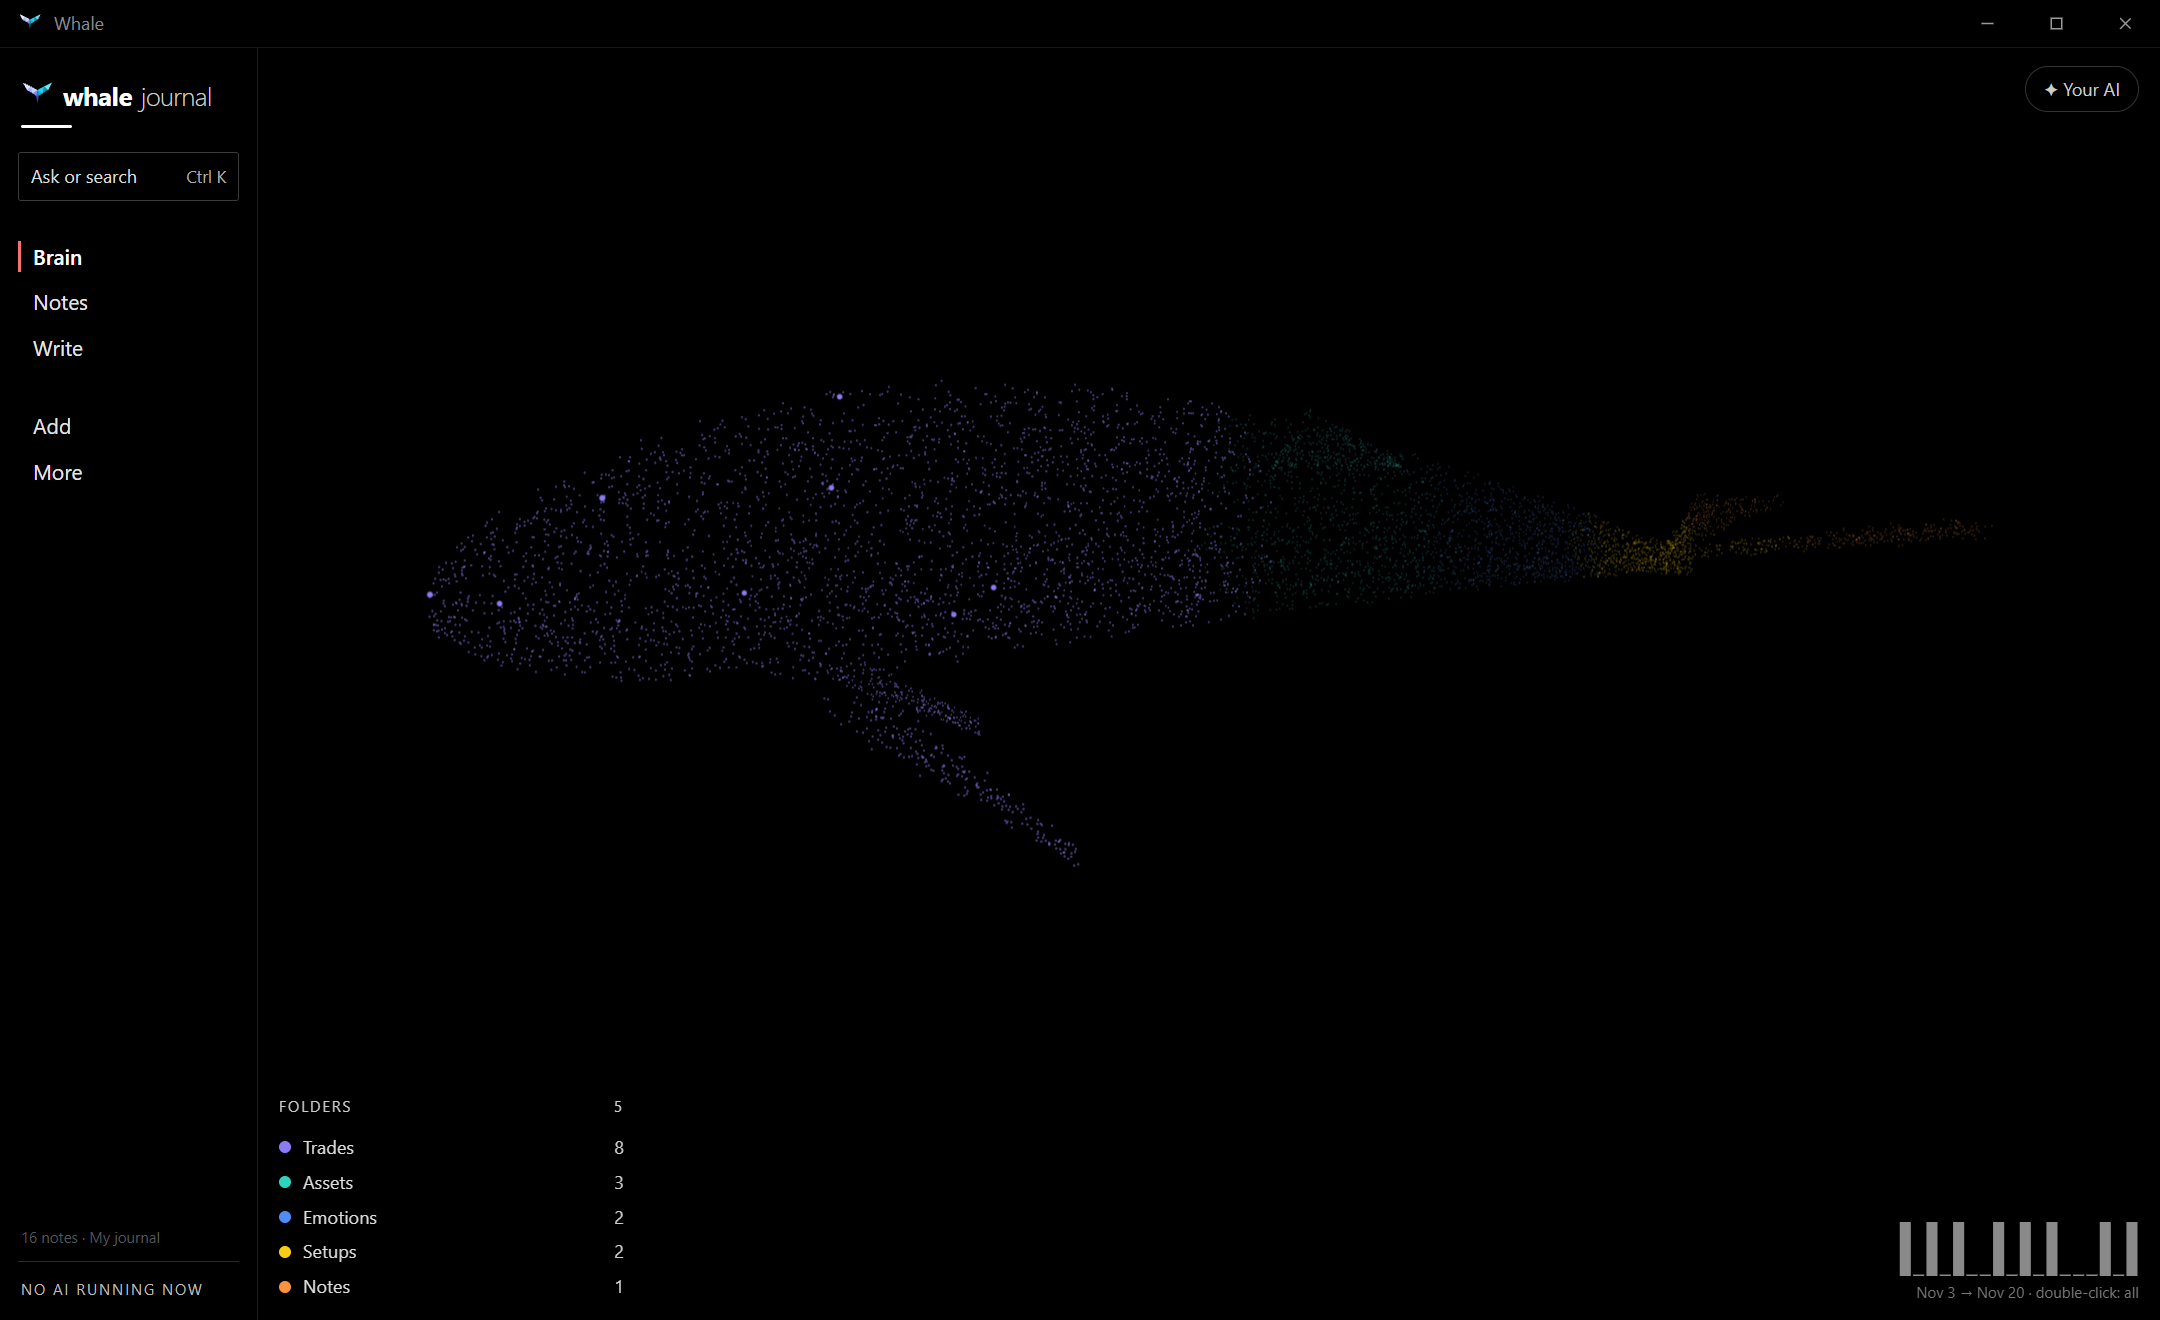
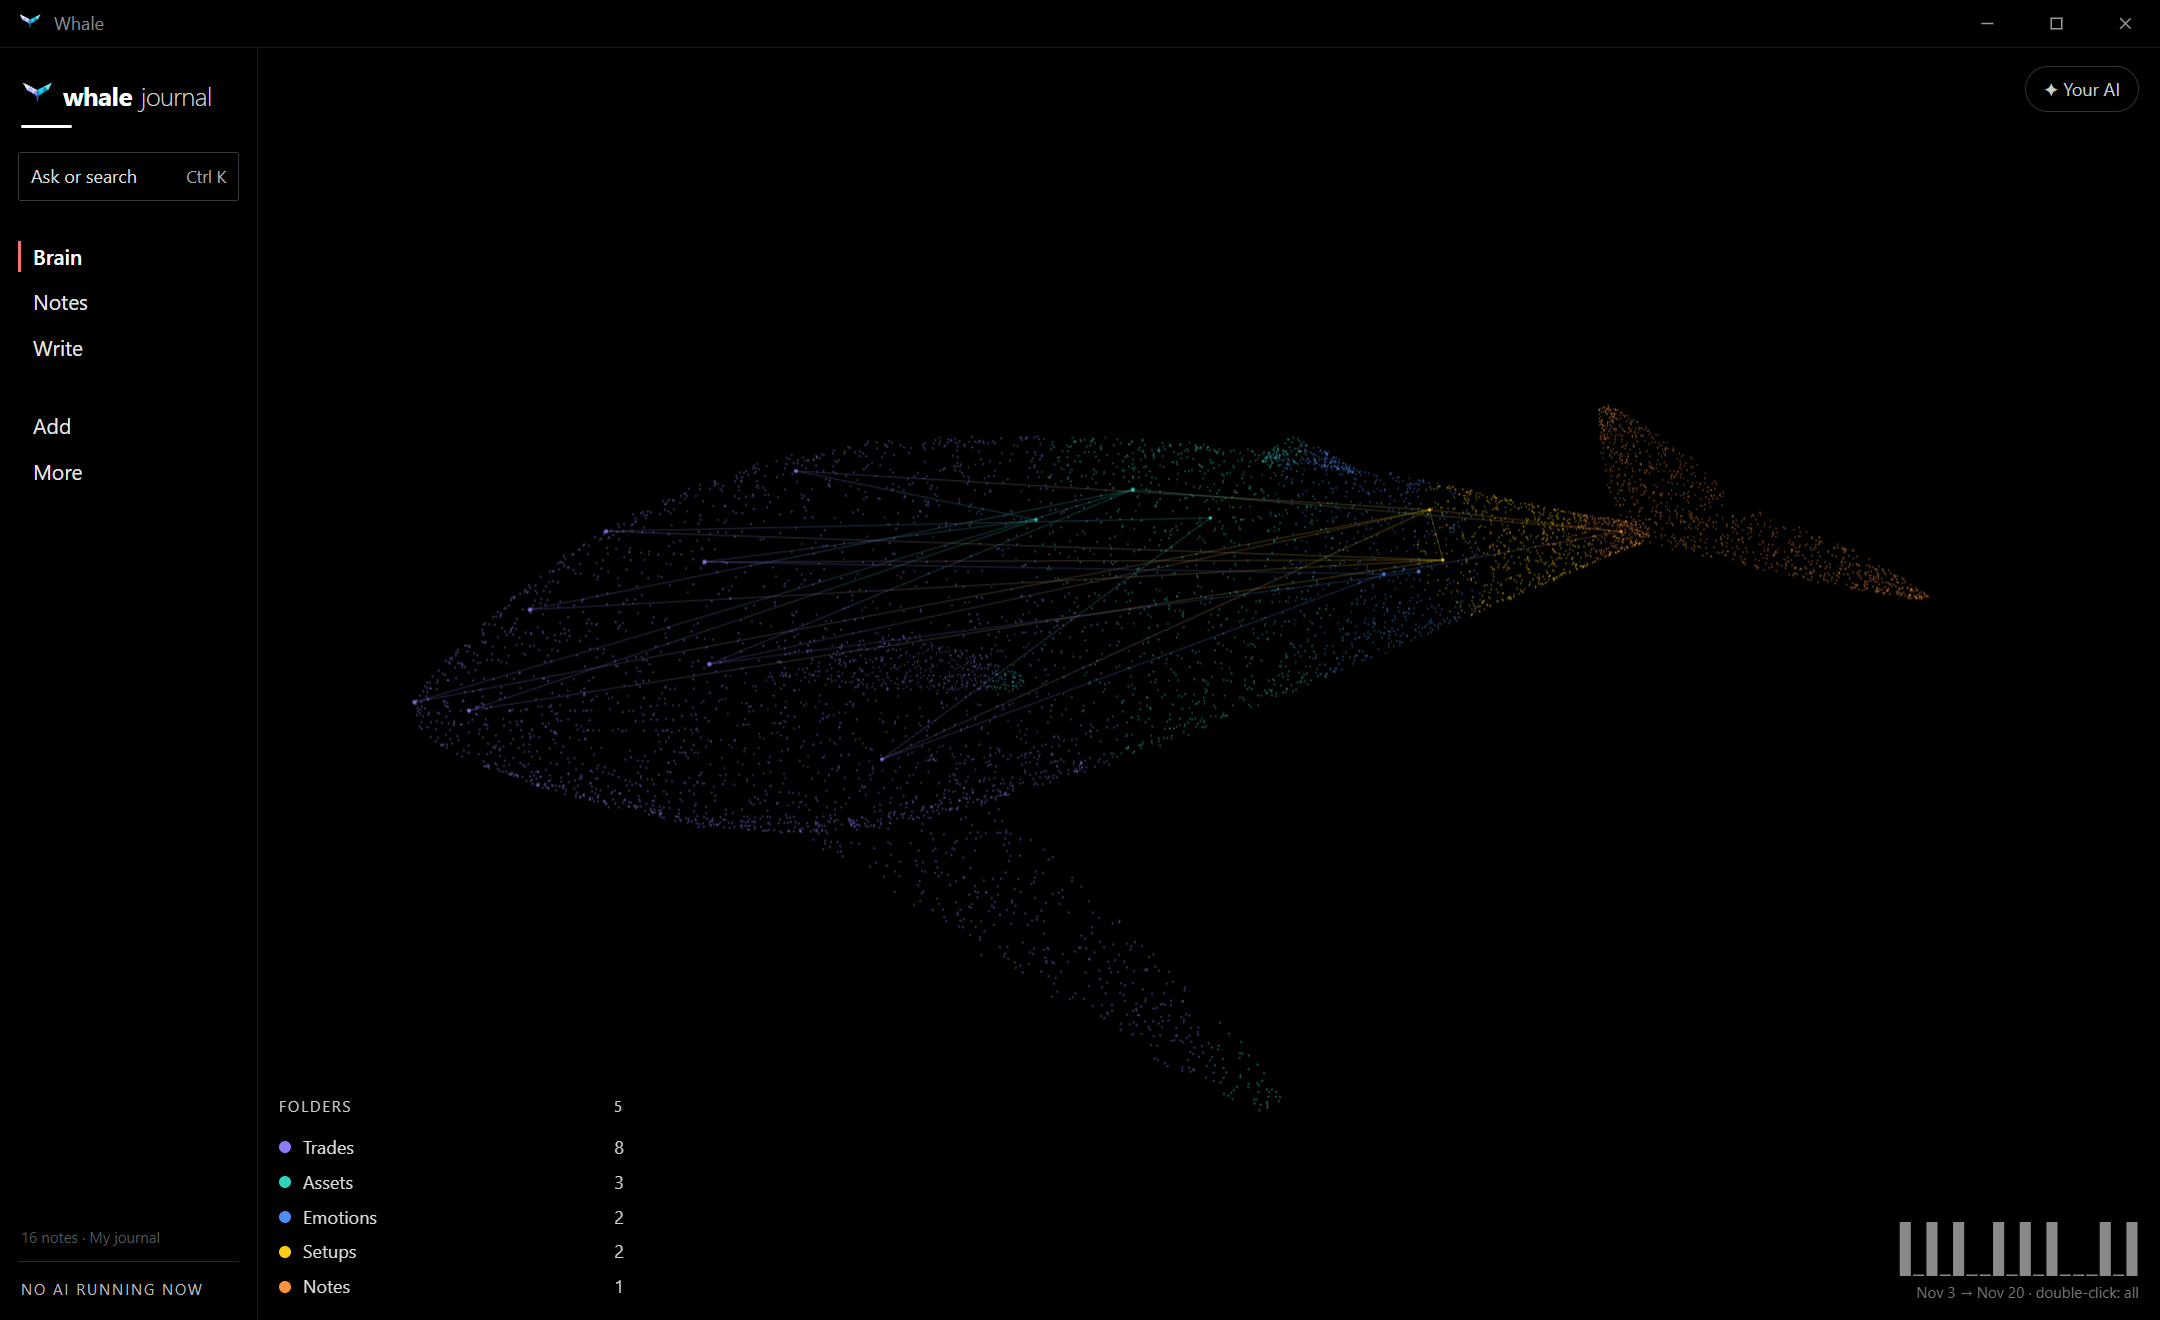
Realistic humpback whale and always-visible link threads
- brain: every [[link]] between two notes is drawn as a thin thread,
  colored by the notes' folders; threads fade while something is
  highlighted, and the hovered note's links light up
- the whale is now a humpback: tapered head, full body, throat pleats,
  long knobbly pectoral fins, small dorsal fin, wide swept-back flukes
  with a notch; points sit mostly on the skin so the volume reads
- gentle swimming motion (tail undulation) shared by points and threads
- notes are placed in the body only; slightly top-down default view
- README screenshots regenerated

diff --git a/src/graph.js b/src/graph.js
@@ -3,31 +3,67 @@
    Folder legend (hover / click to highlight) and time histogram (draggable window). */
 window.Graph = (() => {
   const PALETTE = ['#8b7cf6', '#2dd4bf', '#4f8cf7', '#facc15', '#fb923c', '#4ade80', '#f472b6', '#f87171', '#22d3ee', '#a3e635', '#e879f9', '#94a3b8'];
-  let N_CLOUD = 7000; // grows with the vault (at least 1.6 points per note)
-  let R, S, C, G, pts, linkLines, ray, inited = false, running = false;
-  let zoom = 1, ry = 0.25, rx = 0.1, drag = false, moved = 0, lx = 0, ly = 0, auto = true, tt = 0;
+  let N_CLOUD = 7000; // grows with the vault
+  let BODY_N = 0;     // the first BODY_N points are the body (skin + pleats); fins and flukes come after
+  let R, S, C, G, pts, linkLines, webLines, ray, inited = false, running = false;
+  let zoom = 1, ry = 0.35, rx = 0.42, drag = false, moved = 0, lx = 0, ly = 0, auto = true, tt = 0;
   let cloud = [], folders = [], folderOfPt = [], noteAt = {}, nameOfPt = {}, dateOfPt = {};
   let selFolder = null, hoverFolder = null, hoverPt = null, range = null, bins = [], lit = null; // lit: notes lit up by the AI
   const wrap = $('graphview'), cv = $('gcanvas'), tip = $('gtip'), mouse = new THREE.Vector2(-9, -9);
 
-  /* ---------- Whale silhouette ---------- */
+  /* ---------- Whale silhouette (humpback anatomy) ----------
+     Points sit mostly on the skin so the 3D volume reads clearly:
+     flat broad head, deep belly with throat pleats, long knobbly pectoral fins,
+     small dorsal fin, thin tail stock and wide swept-back flukes with a central notch. */
+  const X0 = -1.75, X1 = 1.55;                     // snout -> tail stock
+  const tOf = (x) => (x - X0) / (X1 - X0);
+  const radius = (t) => 0.035 + (t < 0.32 ? 0.5 * Math.pow(Math.sin((t / 0.32) * Math.PI / 2), 0.8) : 0.5 * Math.pow(1 - Math.pow((t - 0.32) / 0.68, 1.7), 1.2));
+  const spineY = (t) => 0.07 * Math.sin(Math.PI * t) - 0.06 * t - 0.03 * Math.max(0, 0.12 - t) / 0.12;
   function whaleCloud() {
     let seed = 7; const rnd = () => { seed = (seed * 16807) % 2147483647; return seed / 2147483647; };
     const P = [];
-    const body = Math.floor(N_CLOUD * 0.8);
-    for (let i = 0; i < body; i++) {
-      const t = Math.pow(rnd(), 0.85), a = rnd() * Math.PI * 2;
-      const r = (0.62 * Math.pow(Math.sin(Math.PI * Math.min(t * 1.05, 1)), 0.6) * (1 - 0.75 * t) + 0.07) * Math.pow(rnd(), 0.35);
-      let y = r * Math.cos(a) * 0.8; if (y < 0) y *= 0.75;
-      P.push(new THREE.Vector3(-1.7 + 3.3 * t, y + 0.15 * Math.sin(t * 3), r * Math.sin(a)));
+    const n = (f) => Math.floor(N_CLOUD * f);
+    const skin = (t, a, depth) => {
+      const r = radius(t) * depth, c = Math.cos(a);
+      return new THREE.Vector3(X0 + t * (X1 - X0), spineY(t) + r * c * (c > 0 ? 0.74 : 0.95), r * Math.sin(a));
+    };
+    // Body: 88% on the skin, 12% inside
+    for (let i = 0, N = n(0.62); i < N; i++) {
+      const t = Math.pow(rnd(), 0.9), a = rnd() * Math.PI * 2;
+      P.push(skin(t, a, rnd() < 0.88 ? 0.97 + rnd() * 0.05 : Math.pow(rnd(), 0.5)));
     }
-    const rest = N_CLOUD - body;
-    // Tail fluke (horizontal), attached to the end of the body
-    for (let i = 0; i < rest * 0.5; i++) { const s = Math.pow(rnd(), 0.8), side = rnd() < 0.5 ? -1 : 1, u = rnd(); P.push(new THREE.Vector3(1.55 + 0.5 * s + 0.12 * u * s, 0.05 + 0.1 * s + (rnd() - 0.5) * 0.04, side * (0.03 + 0.7 * s * (1 - 0.45 * u)))); }
-    // Pectoral fins
-    for (let i = 0; i < rest * 0.32; i++) { const s = rnd(), side = rnd() < 0.5 ? -1 : 1, w = (1 - s) * 0.18; P.push(new THREE.Vector3(-0.75 + 0.45 * s + (rnd() - 0.5) * w, -0.22 - 0.28 * s + (rnd() - 0.5) * 0.05, side * (0.28 + 0.5 * s + (rnd() - 0.5) * w))); }
-    // Dorsal fin, on the back
-    while (P.length < N_CLOUD) { const s = rnd(), h = 0.2 * Math.pow(1 - s, 0.8) * Math.min(1, s / 0.25); P.push(new THREE.Vector3(0.38 + 0.36 * s, 0.3 + rnd() * h, (rnd() - 0.5) * 0.04)); }
+    // Throat pleats: lines along the lower front of the body
+    for (let i = 0, N = n(0.08); i < N; i++) {
+      const t = 0.03 + rnd() * 0.45, k = Math.round((rnd() - 0.5) * 22);
+      const a = Math.PI + k * 0.085 + (rnd() - 0.5) * 0.012;
+      P.push(skin(t, a, 1.0));
+    }
+    BODY_N = P.length;
+    // Pectoral fins: long (a third of the body), swept back and down, knobbly leading edge
+    for (let i = 0, N = n(0.12); i < N; i++) {
+      const side = rnd() < 0.5 ? -1 : 1, u = rnd(), v = rnd() * 2 - 1;
+      const t0 = 0.3, r0 = radius(t0), base = new THREE.Vector3(X0 + t0 * (X1 - X0), spineY(t0) - r0 * 0.55, side * r0 * 0.78);
+      const dir = new THREE.Vector3(0.62, -0.5, side * 0.6).normalize();
+      const width = (0.17 * Math.pow(1 - u, 0.55) + 0.015) * (1 + (v < 0 ? 0.08 * Math.sin(u * 34) : 0));
+      const p = base.addScaledVector(dir, u * 1.15);
+      p.x += v * width; p.y += v * width * 0.25 + (rnd() - 0.5) * 0.012;
+      P.push(p);
+    }
+    // Dorsal fin: small hump two thirds along the back
+    for (let i = 0, N = n(0.025); i < N; i++) {
+      const s = rnd(), t = 0.64 + 0.08 * s, top = spineY(t) + radius(t) * 0.74;
+      const h = 0.11 * Math.min(1, s / 0.35) * Math.pow(1 - s, 0.7);
+      P.push(new THREE.Vector3(X0 + t * (X1 - X0), top + rnd() * h, (rnd() - 0.5) * 0.025));
+    }
+    // Flukes: wide, horizontal, swept back, notch in the middle of the trailing edge
+    while (P.length < N_CLOUD) {
+      const s = rnd() * 2 - 1, as = Math.abs(s);
+      const le = X1 - 0.04 + 0.36 * Math.pow(as, 1.3);
+      let te = le + 0.34 * (1 - Math.pow(as, 1.8)) + 0.035;
+      if (as < 0.09) te -= 0.13 * (1 - as / 0.09);
+      const x = le + (te - le) * rnd();
+      P.push(new THREE.Vector3(x, spineY(1) + 0.05 * as + (rnd() - 0.5) * 0.02 * (1 - as), s * 0.78));
+    }
     return { P, rnd };
   }
 
@@ -48,11 +84,14 @@ window.Graph = (() => {
     S = new THREE.Scene(); C = new THREE.PerspectiveCamera(38, 1, 0.1, 100);
     ray = new THREE.Raycaster();
     G = new THREE.Group(); S.add(G);
+    // Gentle swimming: the rear of the body and the flukes undulate (same motion for points and threads)
+    const SWIM = `uniform float uTime;
+      vec3 swim(vec3 p){ float k = clamp((p.x - 0.1) / 2.2, 0.0, 1.0); p.y += 0.09 * k * k * sin(uTime * 1.2 - p.x * 1.8); return p; }`;
     const mat = new THREE.ShaderMaterial({
-      uniforms: { uPR: { value: R.getPixelRatio() }, uDist: { value: 5 } },
+      uniforms: { uPR: { value: R.getPixelRatio() }, uDist: { value: 5 }, uTime: { value: 0 } },
       vertexShader: `attribute vec3 acolor; attribute float asize; attribute float aalpha;
-        uniform float uPR; uniform float uDist; varying vec3 vC; varying float vA;
-        void main(){ vC=acolor; vA=aalpha; vec4 mv=modelViewMatrix*vec4(position,1.0);
+        uniform float uPR; uniform float uDist; varying vec3 vC; varying float vA; ${SWIM}
+        void main(){ vC=acolor; vA=aalpha; vec4 mv=modelViewMatrix*vec4(swim(position),1.0);
           gl_PointSize=asize*uPR*(uDist/-mv.z); gl_Position=projectionMatrix*mv; }`,
       fragmentShader: `varying vec3 vC; varying float vA;
         void main(){ float d=length(gl_PointCoord-0.5); if(d>0.5) discard;
@@ -60,7 +99,19 @@ window.Graph = (() => {
       transparent: true, depthWrite: false,
     });
     pts = new THREE.Points(makeGeometry(), mat); G.add(pts);
-    linkLines = new THREE.LineSegments(new THREE.BufferGeometry(), new THREE.LineBasicMaterial({ color: 0xa68bff, transparent: true, opacity: 0.55 }));
+    const lineMat = (opacity, color) => new THREE.ShaderMaterial({
+      uniforms: { uTime: mat.uniforms.uTime, uOpacity: { value: opacity }, uColor: { value: new THREE.Color(color || '#ffffff') }, uUseColor: { value: color ? 1 : 0 } },
+      vertexShader: `attribute vec3 color; varying vec3 vC; ${SWIM}
+        void main(){ vC=color; gl_Position=projectionMatrix*modelViewMatrix*vec4(swim(position),1.0); }`,
+      fragmentShader: `uniform float uOpacity; uniform vec3 uColor; uniform float uUseColor; varying vec3 vC;
+        void main(){ gl_FragColor=vec4(uUseColor > 0.5 ? uColor : vC, uOpacity); }`,
+      transparent: true, depthWrite: false,
+    });
+    // Every link between notes, always visible as thin threads (colored by the notes' folders)
+    webLines = new THREE.LineSegments(new THREE.BufferGeometry(), lineMat(0.3));
+    G.add(webLines);
+    // Links of the hovered note, brighter
+    linkLines = new THREE.LineSegments(new THREE.BufferGeometry(), lineMat(0.85, '#c4b5ff'));
     G.add(linkLines);
 
     new ResizeObserver(resize).observe(wrap);
@@ -94,7 +145,7 @@ window.Graph = (() => {
   const folderName = (path) => (path.includes('/') ? path.split('/')[0] : 'Notes');
   function build() {
     const names = Object.keys(notes);
-    const needed = Math.max(7000, Math.ceil(names.length * 1.6));
+    const needed = Math.max(7000, Math.ceil((names.length * 1.6) / 0.7));
     if (needed !== N_CLOUD) { N_CLOUD = needed; pts.geometry.dispose(); pts.geometry = makeGeometry(); }
     const counts = {};
     names.forEach((n) => { const f = folderName(notes[n].path); counts[f] = (counts[f] || 0) + 1; });
@@ -102,18 +153,22 @@ window.Graph = (() => {
       .map((name, i) => ({ name, count: counts[name], color: new THREE.Color(PALETTE[i % PALETTE.length]), hex: PALETTE[i % PALETTE.length] }));
     if (selFolder != null && !counts[selFolder]) selFolder = null;
 
-    // Each folder takes a slice of the whale (from head to tail)
-    const order = cloud.map((p, i) => [p.x, i]).sort((a, b) => a[0] - b[0]).map((x) => x[1]);
+    // Each folder takes a slice of the body (from head to tail); fins and flukes take the color of the nearest slice
+    const order = cloud.slice(0, BODY_N).map((p, i) => [p.x, i]).sort((a, b) => a[0] - b[0]).map((x) => x[1]);
     const total = names.length || 1;
     const shares = folders.map((f) => Math.max(f.count / total, 0.06));
     const sum = shares.reduce((a, b) => a + b, 0) || 1;
-    folderOfPt = new Array(N_CLOUD);
-    const slices = []; let start = 0;
+    folderOfPt = new Array(N_CLOUD).fill(-1);
+    const slices = [], maxX = []; let start = 0;
     folders.forEach((f, fi) => {
-      const len = fi === folders.length - 1 ? N_CLOUD - start : Math.round((shares[fi] / sum) * N_CLOUD);
+      const len = fi === folders.length - 1 ? BODY_N - start : Math.round((shares[fi] / sum) * BODY_N);
       const sl = order.slice(start, start + len); sl.forEach((i) => (folderOfPt[i] = fi)); slices.push(sl); start += len;
+      maxX.push(sl.length ? cloud[sl[sl.length - 1]].x : -Infinity);
     });
-    if (!folders.length) order.forEach((i) => (folderOfPt[i] = -1));
+    for (let i = BODY_N; i < N_CLOUD && folders.length; i++) {
+      let fi = maxX.findIndex((x) => cloud[i].x <= x);
+      folderOfPt[i] = fi < 0 ? folders.length - 1 : fi;
+    }
 
     // Place each note on a point in its folder's slice
     noteAt = {}; nameOfPt = {}; dateOfPt = {};
@@ -127,7 +182,32 @@ window.Graph = (() => {
         noteAt[n] = idx; nameOfPt[idx] = n; dateOfPt[idx] = noteDate(n);
       });
     });
-    buildBins(); renderLegend(); style(); drawHist();
+    buildWeb(); buildBins(); renderLegend(); style(); drawHist();
+  }
+
+  // Thin threads for every [[link]] between two notes (each pair drawn once)
+  function buildWeb() {
+    const pos = [], col = [], seen = new Set();
+    Object.keys(noteAt).forEach((n) => {
+      const i = noteAt[n], a = cloud[i];
+      const c = folders[folderOfPt[i]] ? folders[folderOfPt[i]].color : new THREE.Color('#888888');
+      parse(n).links.forEach((m) => {
+        const j = noteAt[m];
+        if (j == null || j === i) return;
+        const key = i < j ? i + '-' + j : j + '-' + i;
+        if (seen.has(key)) return;
+        seen.add(key);
+        const b = cloud[j];
+        const c2 = folders[folderOfPt[j]] ? folders[folderOfPt[j]].color : c;
+        pos.push(a.x, a.y, a.z, b.x, b.y, b.z);
+        col.push(c.r, c.g, c.b, c2.r, c2.g, c2.b);
+      });
+    });
+    webLines.geometry.dispose();
+    const g = new THREE.BufferGeometry();
+    g.setAttribute('position', new THREE.Float32BufferAttribute(pos, 3));
+    g.setAttribute('color', new THREE.Float32BufferAttribute(col, 3));
+    webLines.geometry = g;
   }
 
   /* ---------- Point appearance ---------- */
@@ -155,6 +235,8 @@ window.Graph = (() => {
       col[i * 3] = c.r; col[i * 3 + 1] = c.g; col[i * 3 + 2] = c.b; size[i] = s; al[i] = a;
     }
     pts.geometry.attributes.acolor.needsUpdate = pts.geometry.attributes.asize.needsUpdate = pts.geometry.attributes.aalpha.needsUpdate = true;
+    // Threads fade when something is highlighted, so the highlight stands out
+    if (webLines) webLines.material.uniforms.uOpacity.value = active >= 0 || lit || range || hoverPt != null ? 0.1 : 0.3;
   }
   function setLinks(idx) {
     const arr = [];
@@ -165,7 +247,7 @@ window.Graph = (() => {
       linked.forEach((m) => { const j = noteAt[m]; if (j != null) { const b = cloud[j]; arr.push(a.x, a.y, a.z, b.x, b.y, b.z); } });
     }
     linkLines.geometry.dispose();
-    const g = new THREE.BufferGeometry(); g.setAttribute('position', new THREE.Float32BufferAttribute(arr, 3)); linkLines.geometry = g;
+    const g = new THREE.BufferGeometry(); g.setAttribute('position', new THREE.Float32BufferAttribute(arr, 3)); g.setAttribute('color', new THREE.Float32BufferAttribute(new Array(arr.length).fill(1), 3)); linkLines.geometry = g;
   }
 
   /* ---------- Folder legend ---------- */
@@ -249,6 +331,7 @@ window.Graph = (() => {
     const d = zoom * Math.max(7.2 / (C.aspect || 1), 4.2);
     C.position.set(0, d * 0.08, d); C.lookAt(0, 0.05, 0);
     pts.material.uniforms.uDist.value = d;
+    pts.material.uniforms.uTime.value = tt;
     G.rotation.set(rx, ry, 0.03 * Math.sin(tt * 0.6)); G.position.set(-0.2, 0.3 + 0.03 * Math.sin(tt * 0.8), 0); G.updateMatrixWorld();
 
     // Hover: the note closest to the cursor

diff --git a/tools/shots.html b/tools/shots.html
@@ -27,7 +27,6 @@ f.onload = async () => {
     w.AIPanel.send('Everything about BTC this month'); await wait(900);
   } else if (shot === 'brain-full') {
     w.setView('graph'); await wait(400);
-    d.querySelector('#glegend .lr').dispatchEvent(new w.MouseEvent('mouseenter'));
   } else if (shot === 'editor') {
     const n = '2026-11-05 BTC short';
     // "notes" is a top-level let in app.js, not a window property: reach it through eval in the frame
